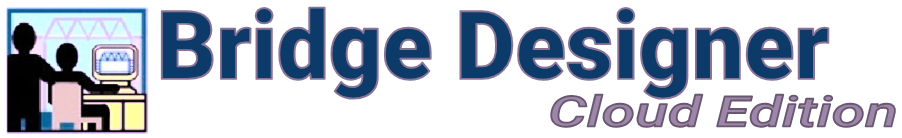
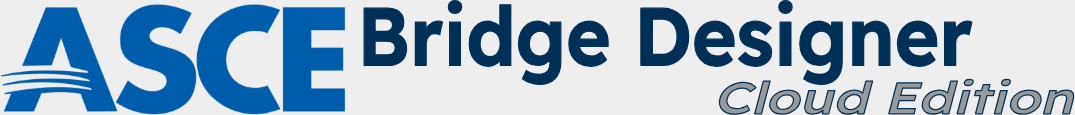
ASCE branding graphics.

diff --git a/src/app/features/about/about-dialog/about-dialog.component.html b/src/app/features/about/about-dialog/about-dialog.component.html
@@ -6,13 +6,13 @@
   [isModal]="true"
   [autoOpen]="false"
   [width]="772"
-  [height]="476"
+  [height]="366"
 >
   <div
     #header
     class="header"
   >
-    ASCE Bridge Designer (Cloud Edition)
+    About...
   </div>
   <div
     #content
@@ -28,15 +28,15 @@
         />
       </div>
       <div class="info-box">
-        <strong>The authors:</strong>
-        <ul>
+        <strong>Authors:</strong>
+        <ul class="listing">
           <li>Steve Ressler, PE, PhD</li>
           <li>Gene Ressler, PhD</li>
         </ul>
       </div>
       <div class="info-box">
-        <strong>Cloud Edition contributors:</strong>
-        <ul>
+        <strong>Contributors:</strong>
+        <ul class="listing">
           <li>Jason Brett</li>
           <li>Bill Carey</li>
           <li>Mike Maffei</li>
@@ -57,7 +57,7 @@
           <a
             href="https://www.gnu.org/licenses/gpl-3.0.en.html"
             target="_blank"
-            >GNU Public License Version 3</a
+            >GNU Public License</a
           >.
         </p>
       </div>
@@ -67,8 +67,8 @@
         <img
           class="motif"
           src="img/motif01.png"
-          title="Newburgh-Beacon Bridge, New York"
-          alt="Newburgh-Beacon Bridge, New York"
+          title="Lehigh Gap, Pennsylvania, US"
+          alt="Lehigh Gap, Pennsylvania, US"
         />
       </div>
       <div class="version">Version {{ version }}</div>

diff --git a/src/app/features/controls/management/ui-state.service.ts b/src/app/features/controls/management/ui-state.service.ts
@@ -137,7 +137,7 @@ export class UiStateService {
     this.addDisableOverrides(eventBrokerService.inventorySelectionChangeRequest, initialAndAnimation);
     this.addDisableOverrides(eventBrokerService.loadBridgeFileRequest, animation);
     this.addDisableOverrides(eventBrokerService.loadDesignIterationRequest, initialAndAnimation);
-    this.addDisableOverrides(eventBrokerService.loadSampleRequest, initialAndAnimation);
+    this.addDisableOverrides(eventBrokerService.loadSampleRequest, animation);
     this.addDisableOverrides(eventBrokerService.loadTemplateRequest, animation);
     this.addDisableOverrides(eventBrokerService.memberDetailsReportRequest, initial, true);
     this.addDisableOverrides(eventBrokerService.memberNumbersToggle, initialAndAnimation);

diff --git a/src/app/features/about/about-dialog/about-dialog.component.scss b/src/app/features/about/about-dialog/about-dialog.component.scss
@@ -6,7 +6,7 @@
 }
 
 .content {
-  background-color: rgb(238,238,238);
+  background-color: rgb(238, 238, 238);
   display: grid;
   grid-template-columns: min-content min-content;
   grid-template-rows: min-content;
@@ -39,9 +39,17 @@
 }
 
 .info-box {
-  padding: 4px;
+  padding: 4px 4px 0px 4px;
   margin: 4px;
   border: 2px lightgray ridge;
+}
+
+.listing {
+  display: flex;
+  list-style-type: none;
+  justify-content: flex-start;
+  padding-left: 4px;
+  margin: 4px;
 }
 
 .version {

diff --git a/src/styles.scss b/src/styles.scss
@@ -22,7 +22,6 @@ body {
   padding-right: 0;
 }
 
-
 .jqx-cell {
   padding-top: 0;
   padding-bottom: 0;
@@ -32,13 +31,19 @@ body {
   height: 100vh;
   overflow: hidden;
   display: flex;
+  flex-direction: column;
   justify-content: center;
   align-items: center;
 }
 
 .loading-img {
   width: 319px;
-  height: 102.5px;
+  margin-top: 48px;
+}
+
+.splash-img {
+  width: 600px;
+  border-collapse: collapse;
 }
 
 // Cause window.print() to include entire document.

diff --git a/src/app/features/welcome/welcome-dialog/welcome-dialog.component.html b/src/app/features/welcome/welcome-dialog/welcome-dialog.component.html
@@ -6,7 +6,7 @@
   [isModal]="true"
   [autoOpen]="false"
   [width]="840"
-  [height]="360"
+  [height]="292"
 >
   <div
     #header
@@ -79,8 +79,8 @@
         <img
           class="motif"
           src="img/motif01.png"
-          title="Newburgh-Beacon Bridge, New York"
-          alt="Newburgh-Beacon Bridge, New York"
+          title="Lehigh Gap, Pennsylvania, US"
+          alt="Lehigh Gap, Pennsylvania, US"
         />
       </div>
       <jqxButton

diff --git a/src/app/features/help/help-topic/help-topic.component.html b/src/app/features/help/help-topic/help-topic.component.html
@@ -5589,10 +5589,11 @@
   <h1>What's new in the cloud edition?</h1>
   <div class="p">
     <img
-      alt="ASCE Bridge Designer, Cloud Edition"
+      alt="ASCE Bridge Designer splash image of Lehigh Gap, Pennsylvania, US"
+      title="Lehigh Gap, Pennsylvania, US"
       width="400"
-      height="244"
-      src="img/help/splash.png"
+      height="267"
+      src="img/splash.png"
     />
   </div>
   <h2>Welcome!</h2>

diff --git a/src/index.html b/src/index.html
@@ -25,6 +25,12 @@
     <app-root
       ><div class="loading-div">
         <img
+          class="splash-img"
+          alt="ASCE Bridge Designer splash image of Lehigh Gap, Pennsylvania, US"
+          title="Lehigh Gap, Pennsylvania, US"
+          src="img/splash.png"
+        />
+        <img
           class="loading-img"
           alt="Bridge designer is on the way!"
           src="img/loading.gif"

diff --git a/src/app/features/help/help-topic/help-topic.component.css b/src/app/features/help/help-topic/help-topic.component.css
@@ -6,7 +6,7 @@
 }
 
 .bd-emph {
-  color: #5daaff;
+  color: #005DAB;
   font-weight: bold;
 }
 

diff --git a/src/app/features/welcome/welcome-dialog/welcome-dialog.component.scss b/src/app/features/welcome/welcome-dialog/welcome-dialog.component.scss
@@ -56,5 +56,6 @@
 }
 
 .motif {
+  width: 209px;
   border: 2px lightgray inset;
 }
